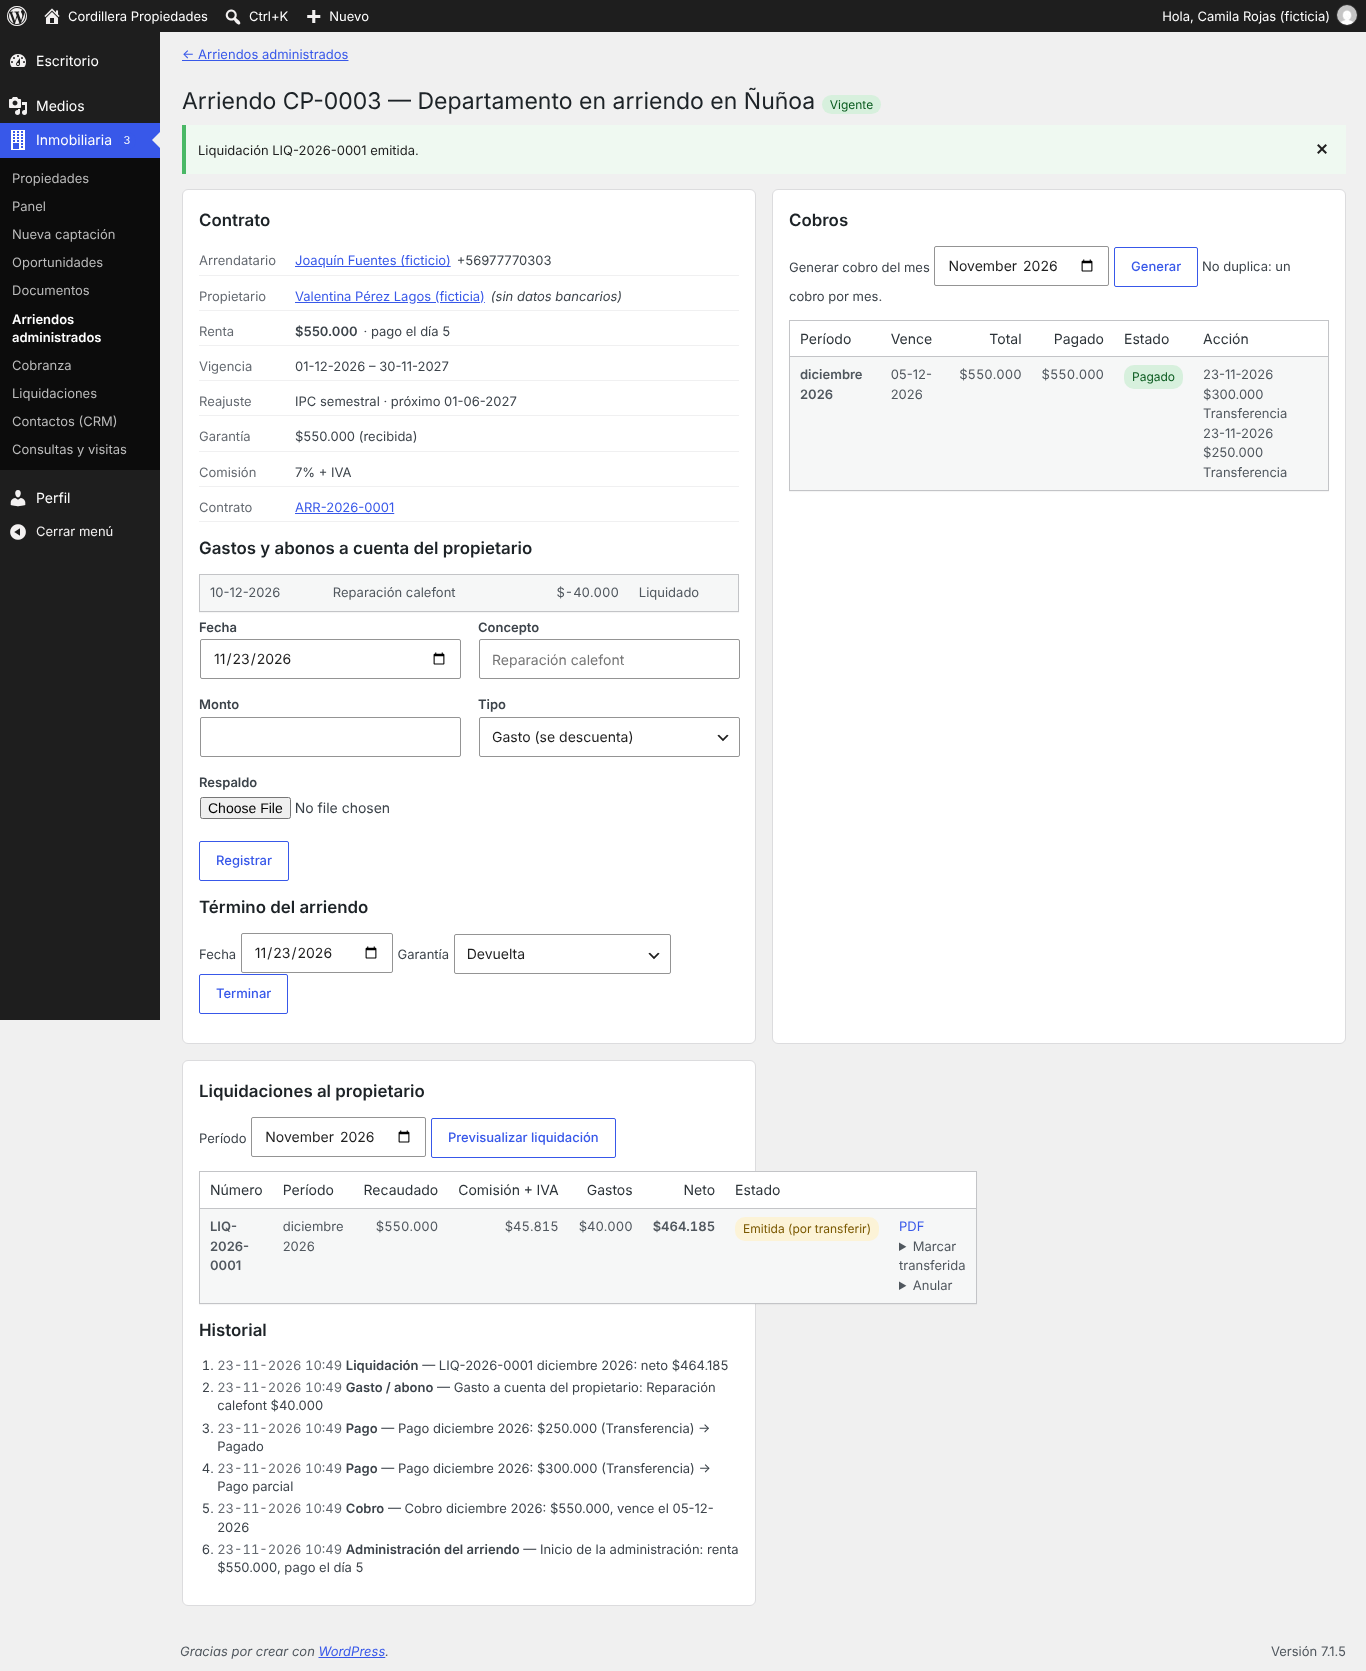
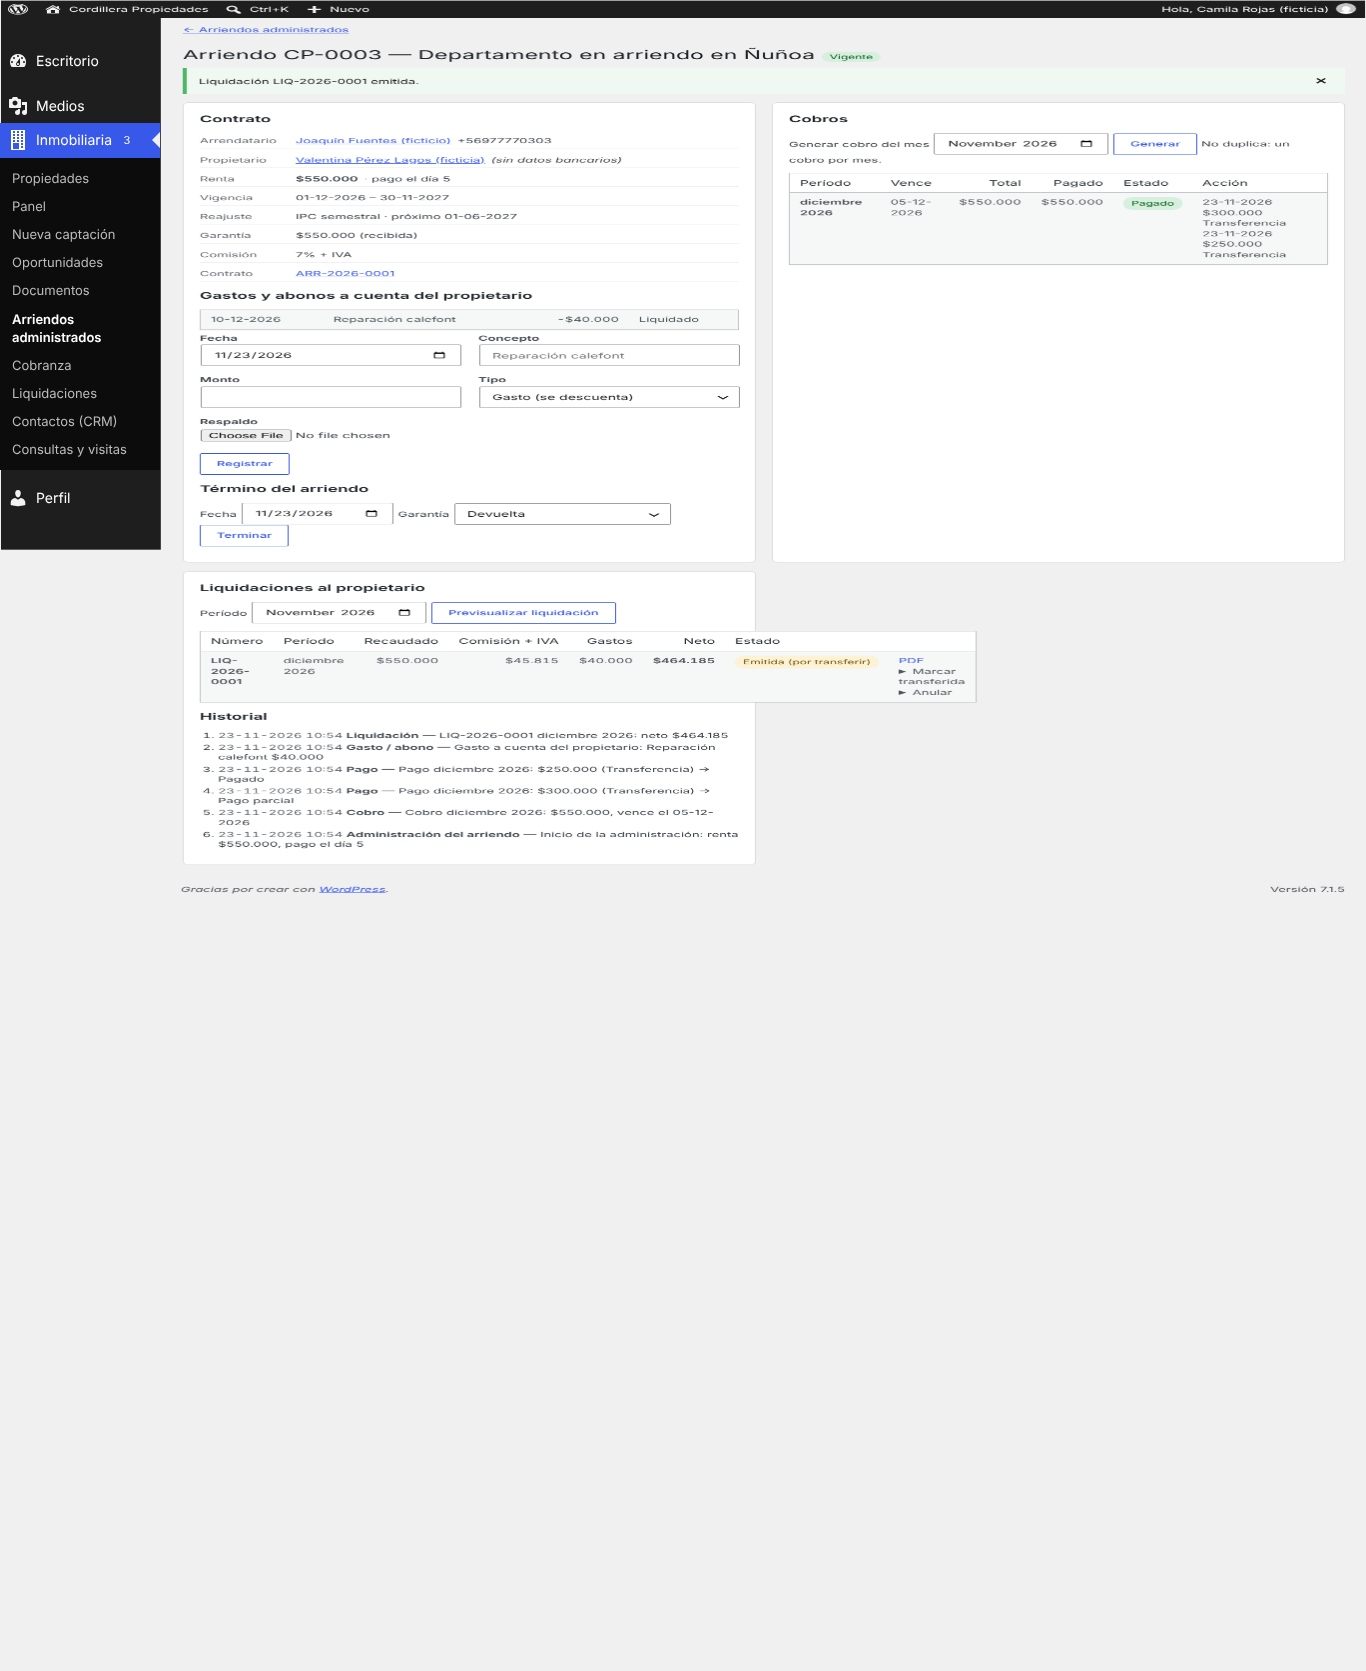
Administración de arriendos verificada: documentación y resultados
Pruebas: Entrega 1 33/33, Entrega 2 23/23, administración de arriendos 21/21.

Claude-Session: https://claude.ai/code/session_01Shuh6vvZh8FAV6ecjqshiZ

diff --git a/docs/ADMINISTRACION-ARRIENDOS.md b/docs/ADMINISTRACION-ARRIENDOS.md
@@ -1,0 +1,54 @@
+# Módulo: administración de arriendos, cobranza y liquidaciones (plugin 0.3.0)
+
+Se actualiza subiendo el plugin sobre la versión anterior. La base de datos pasa a la versión 3 al entrar al admin.
+
+## Pantallas (menú Inmobiliaria)
+
+| Pantalla | Qué hace |
+|---|---|
+| **Arriendos administrados** | Lista de arriendos vigentes y terminados. Se inicia desde la oportunidad de arriendo ganada (trae renta, partes, garantía y contrato emitido) o desde el expediente de la propiedad. |
+| **Ficha del arriendo** | Datos del contrato; aviso y aplicación del reajuste por IPC; cobros con pagos (parciales, con comprobante), cargos adicionales y anulación; gastos y abonos a cargo del propietario (con respaldo); vista previa y emisión de la liquidación; término del arriendo con el estado de la garantía. |
+| **Cobranza** | Cobros del mes con totales por cobrar, recaudado y pendiente; botón «Generar cobros del mes»; tabla de morosidad con los días de atraso. |
+| **Liquidaciones** | Liquidaciones por período; emisión de todas las del mes; marcar como transferida (con referencia) o anular. |
+| **Ficha del contacto** | Datos bancarios del propietario (privados) y sus arriendos, como propietario o como arrendatario. |
+| **Ajustes** | Comisión de administración, IVA, día de generación de los cobros y datos para el pago. Fuente de la UF: manual, mindicador.cl o API de la CMF (con clave), y el botón «Actualizar la UF ahora». |
+
+## Reglas
+
+- **Cobros:** se genera uno por arriendo y mes, sin duplicarse, de forma automática con la tarea diaria o con el botón. El vencimiento es el día de pago (el último día si el mes es más corto). El primer y el último mes se prorratean.
+- **Renta en UF:** se cobra en pesos con la UF del día del vencimiento, o la última conocida. El cobro guarda el valor, la fecha y la fuente usados.
+- **Estados del cobro:** pendiente, pago parcial, pagado, vencido o anulado. No se acepta un pago mayor al saldo.
+- **Reajuste IPC:**
+  - al llegar la fecha, la ficha avisa y se ingresa el IPC acumulado publicado por el INE;
+  - la nueva renta rige para los cobros siguientes;
+  - la próxima fecha avanza 6 o 12 meses;
+  - el historial registra la renta anterior, la nueva y la fuente.
+- **Liquidación al propietario:** pagos recibidos y aún no liquidados − comisión (% del arriendo) − IVA sobre la comisión − gastos + abonos del período.
+  - Un pago atrasado entra en la liquidación siguiente.
+  - Al emitirse se numera (LIQ-2026-0001) y se congela el detalle. El PDF se guarda en el almacenamiento privado con su huella y se envía por correo al propietario.
+  - Un gasto registrado después no la altera. Anularla (si no se ha transferido) libera sus pagos y gastos.
+- **Permisos:** solo administración y el corredor responsable de la propiedad ven el arriendo, sus cobros y sus liquidaciones.
+
+## Pruebas (WordPress 7.1.5 es_CL)
+
+`pruebas/ejecutar.sh` ejecuta las tres suites: **Entrega 1: 33/33, Entrega 2: 23/23 y administración de arriendos: 21/21.**
+
+Lo que cubre esta suite:
+
+- cierre ganado del departamento en Ñuñoa → Arrendado;
+- administración iniciada con renta de $550.000, garantía, partes y día de pago 5;
+- cobro de diciembre sin duplicar;
+- pagos de $300.000 (pago parcial) y $250.000 (pagado), con rechazo de un sobrepago;
+- gasto de $40.000 y liquidación de $550.000 − $38.500 − $7.315 − $40.000 = **$464.185**, en PDF y transferida;
+- una segunda liquidación del mismo mes, rechazada;
+- un gasto posterior que no altera la liquidación emitida y entra en la siguiente;
+- reajuste IPC de 2,1%: $561.550 desde enero, sin cambiar diciembre;
+- renta de UF 16,5 en Providencia cobrada en pesos con la UF y su fuente;
+- cobro vencido que aparece en morosidad y en el panel;
+- otro corredor sin acceso (403).
+
+## Pendiente
+
+- **UF automática:** mindicador.cl respondía con error (HTTP 500) durante la prueba. La conexión está implementada pero no verificada en vivo; la carga manual funciona. La API de la CMF requiere pedir una clave gratuita.
+- **Correos:** necesitan SMTP en el hosting.
+- **Mejoras posibles:** intereses por mora, recordatorios automáticos antes del vencimiento, pago en línea (Khipu, Flow, Webpay), reparto de la liquidación entre varios titulares por porcentaje y certificado anual de rentas.

diff --git a/README.md b/README.md
@@ -7,6 +7,7 @@ Sitio y gestión inmobiliaria en WordPress para una corredora chilena (ventas y 
 - `pruebas/` — pruebas de aceptación (Playwright) y utilidades de entorno local.
 - `docs/LEEME-ENTREGA-1.md` — instalación, mapa de pantallas, modelo de datos, roles y pendientes.
 - `docs/ENTREGA-2.md` — oportunidades, ofertas, plantillas versionadas, PDF y expediente.
+- `docs/ADMINISTRACION-ARRIENDOS.md` — cobranza mensual, reajustes y liquidaciones a propietarios.
 
-Estado: Entregas 1 y 2 completas. Pruebas en WordPress 7.1.5 es_CL: Entrega 1 33/33, Entrega 2 23/23 (`pruebas/ejecutar.sh`).
-Pendiente: Entrega 3 (portales, retiros y firma electrónica).
+Estado: Entregas 1 y 2 y administración de arriendos completas. Pruebas en WordPress 7.1.5 es_CL: 33/33, 23/23 y 21/21 (`pruebas/ejecutar.sh`).
+En espera: portales inmobiliarios y firma electrónica. Siguientes: portal privado del dueño y valorización automática.
